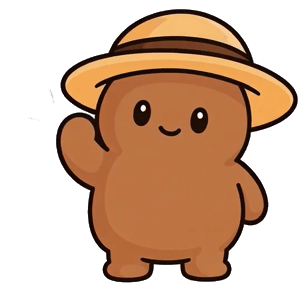
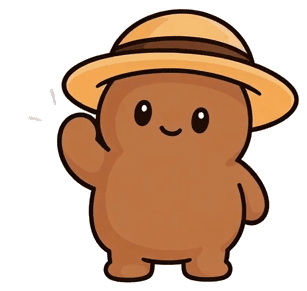
Swap the companion wave for the new transparent loop.
Size, centering, and glow stay the same.

diff --git a/src/features/onboarding/components/CompanionMascot.tsx b/src/features/onboarding/components/CompanionMascot.tsx
@@ -6,7 +6,7 @@ import { colors, radius, shadows, spacing } from '@/design-system';
 const WAVE_LOOP = require('../../../../assets/images/mascot/mascot-companion-loop.gif');
 const WAVE_STILL = require('../../../../assets/images/mascot/mascot-companion-still.png');
 
-const ART_WIDTH = 306;
+const ART_WIDTH = 307;
 const ART_HEIGHT = 291;
 const ART_ASPECT = ART_WIDTH / ART_HEIGHT;
 const MASCOT_SIZE_SCALE = 1.29;
